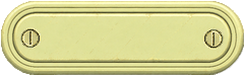
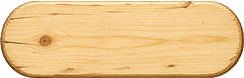
refactoring ui

diff --git a/src/game/states/stateGame/startScreen/locationPage/locationCatalog/LocationCatalogRow.ts b/src/game/states/stateGame/startScreen/locationPage/locationCatalog/LocationCatalogRow.ts
@@ -13,6 +13,8 @@ import {CATALOG_COLORS} from './locationCatalogTheme.js'
 const CONTENT_PADDING = 40 // Общий горизонтальный отступ содержимого дощечки
 const LOCK_GAP = 12 // Расстояние между названием и замком
 const LOCKED_BOARD_TINT = 0x91846d // Затемнение заблокированной дощечки
+const HOVER_SCALE = 1.02 // Увеличение дощечки при наведении
+const HOVER_DURATION = 0.15 // Длительность анимации наведения
 const SHAKE_OFFSET = 6 // Амплитуда горизонтального встряхивания
 const SHAKE_DURATION = 0.045 // Длительность одного шага встряхивания
 
@@ -33,6 +35,7 @@ export default class LocationCatalogRow extends Container {
   resize = (width: number, height: number) => {
     const scale = Math.min(width / this.#background.texture.width, height / this.#background.texture.height)
     this.hitArea = new Rectangle(0, 0, width, height)
+    this.origin.set(width / 2, height / 2)
     this.#background.scale.set(scale)
     this.#background.position.set(width / 2, height / 2)
     this.#title.position.set(CONTENT_PADDING, height / 2)
@@ -50,11 +53,29 @@ export default class LocationCatalogRow extends Container {
     this.cursor = this.#state.isUnlocked ? 'pointer' : 'default'
     this.interactiveChildren = false
     this.on('pointertap', () => this.#handlePress(onSelect))
+    this.#initHover()
+  }
+
+  // Подключает лёгкое увеличение дощечки при наведении.
+  #initHover = () => {
+    this.on('pointerover', () => this.#animateScale(HOVER_SCALE))
+    this.on('pointerout', () => this.#animateScale(1))
+  }
+
+  // Плавно изменяет масштаб всей дощечки относительно её центра.
+  #animateScale = (scale: number) => {
+    gsap.killTweensOf(this.scale)
+    gsap.to(this.scale, {
+      x: scale,
+      y: scale,
+      duration: HOVER_DURATION,
+      ease: 'sine.out',
+    })
   }
 
   // Создаёт деревянную подложку строки.
   #createBackground = () => {
-    this.#background = GameUtils.createSprite('board', {label: `${this.label}-background`})
+    this.#background = GameUtils.createSprite('select-board', {label: `selectBoard`})
     this.#background.tint = this.#getBackgroundTint()
     this.addChild(this.#background)
   }

diff --git a/src/game/states/stateGame/startScreen/locationPage/LocationPageView.ts b/src/game/states/stateGame/startScreen/locationPage/LocationPageView.ts
@@ -7,6 +7,7 @@ import type {GameMenuCallbacks, LevelEntry, LocationDefinition, LocationSelectio
 import LocationCard, {CARD_HEIGHT, CARD_WIDTH} from './locationCard/LocationCard.ts'
 import LocationCatalogView from './locationCatalog/LocationCatalogView.js'
 import LocationUnlockCelebration from './LocationUnlockCelebration.js'
+import GameUtils from '@/game/utils/gameUtils/GameUtils.ts'
 
 // Отображает страницы карточек локаций и кнопку продолжения игры.
 
@@ -142,18 +143,16 @@ export default class LocationPageView extends Container {
       cursor: 'pointer',
     })
 
-    const background = new Graphics({label: 'btnContinueAdventure-background'})
-    background.roundRect(0, 0, 480, 100, 28).fill({color: 0x9fbd3b})
-    background.stroke({color: 0xe7de83, width: 5})
-    background.pivot.set(background.width / 2, background.height / 2)
+    const background = GameUtils.createSprite('btn-primary')
+    background.scale.set(1.5)
 
     this.#continueTitle = new Text({
       label: 'btnContinueAdventure-title',
       text: i18next.t('locationSelect.continue'),
-      style: {...primaryFontStyle, fill: 0x303b12, fontSize: 31},
+      style: {...primaryFontStyle, fill: 0xFFFFFF, fontSize: 36},
     })
     this.#continueTitle.anchor.set(0.5)
-    this.#continueTitle.y = -15
+    this.#continueTitle.y = -14
 
     this.#continueSubtitle = new Text({
       label: 'btnContinueAdventure-subtitle',
@@ -161,7 +160,7 @@ export default class LocationPageView extends Container {
       style: {...primaryFontStyle, fill: 0x3e4b1d, fontSize: 22},
     })
     this.#continueSubtitle.anchor.set(0.5)
-    this.#continueSubtitle.y = 22
+    this.#continueSubtitle.y = 18
 
     button.addChild(background, this.#continueTitle, this.#continueSubtitle)
     button.on('pointertap', onContinue)

diff --git a/src/game/ui/common/modal/BaseModal.ts b/src/game/ui/common/modal/BaseModal.ts
@@ -71,7 +71,7 @@ export default class BaseModal extends Container {
     label,
     w = 430,
     h = 500,
-    crossOffset = {x: 0, y: 0},
+    crossOffset = {x: 30, y: -30},
     isSprite = true,
     spriteTexture = 'main-pop-up',
     nineSlice = {left: 0, top: 0, right: 0, bottom: 0},
@@ -300,18 +300,19 @@ export default class BaseModal extends Container {
 
     const header = new Container({label: 'baseModalHeader'})
     this.#header = header
-    const sprite = GameUtils.createSprite('frame-header', {
+    const spriteHeader = GameUtils.createSprite('select-board', {
       anchorY: 0,
       label: 'header',
     })
+    spriteHeader.scale.set(1.4)
     header.position.set(0, -topBorderOffset + topPadding)
 
     this.#headerText = GameUtils.createText('...', {
       style: {...primaryFontStyle, fontSize: 50},
     })
-    this.#headerText.y = sprite.height / 2
+    this.#headerText.y = spriteHeader.height / 2
 
-    header.addChild(sprite, this.#headerText)
+    header.addChild(spriteHeader, this.#headerText)
     this.addChild(header)
   }
 }

diff --git a/src/game/features/scoreboard/ScoreboardView.ts b/src/game/features/scoreboard/ScoreboardView.ts
@@ -17,7 +17,6 @@ const getViewHeight = () => {
   return maxRows * (ROW_SIZE.rowHeight + offsetY) + header + padding
 }
 
-// Создаёт модальное представление таблицы лидеров.
 
 export default class ScoreboardView extends BaseModal {
   #loadingText!: Text
@@ -26,9 +25,13 @@ export default class ScoreboardView extends BaseModal {
   #userPlayerTextFill = 0x00ffa9
   #userPlayerRowFill = 0x20b2aa
 
-  // Создаёт окно и его статические элементы.
   constructor(props: BaseModalOptions = {}) {
-    super({h: getViewHeight(), w: 600, isNeedHeader: true, ...props})
+    super({
+      h: getViewHeight(),
+      w: 600,
+      isNeedHeader: true,
+      ...props
+    })
 
     this.label = 'scoreboardView'
     this.#create()

diff --git a/src/game/features/store/StoreView.ts b/src/game/features/store/StoreView.ts
@@ -8,19 +8,20 @@ import {GAME_EVENTS} from '../../gameConfig/gameEvents.js'
 import StoreCard, {CARD_SIZE, CARDS_DATA} from './StoreCard.js'
 import StoreTopRow from './StoreTopRow.js'
 
-// Создаёт модальное представление магазина и сетку товаров.
 
 export default class StoreView extends BaseModal {
   #cardsContainer!: Container
   #cards: StoreCard[] = []
 
-  // Создаёт окно магазина с заголовком.
   constructor(props: BaseModalOptions = {}) {
-    super({h: 648, w: 420, isNeedHeader: true, ...props})
+    super({
+      h: 800,
+      w: 600,
+      isNeedHeader: true,
+      ...props
+    })
 
     this.label = 'storeView'
-    this._initScale = 1.3
-
     this.#setHeaderText()
   }
 

diff --git a/src/game/ui/common/options/OptionsView.ts b/src/game/ui/common/options/OptionsView.ts
@@ -189,7 +189,7 @@ export default class OptionsView extends BaseModal {
 
     this.#timeLine = await gsap
       .timeline({ease: 'linear'})
-      .to(this.#optionsToggleBtn, {angle: isVisible ? 90 : 0, duration: 0.1})
+      .to(this.#optionsToggleBtn, {angle: isVisible ? 50 : 0, duration: 0.1})
       .eventCallback('onComplete', () => {
         if (!isVisible) Locator.uiLayer.closeModal(this)
         destroyTimeLine(this.#timeLine as gsap.core.Timeline | null)

diff --git a/src/game/states/stateGame/startScreen/GameMenuView.ts b/src/game/states/stateGame/startScreen/GameMenuView.ts
@@ -85,7 +85,11 @@ export default class GameMenuView extends Container {
   #createToolButton = (name: string, icon: string, x: number, onPress: () => void) => {
     const button = new ButtonContainer({
       props: {name},
-      spriteKeys: ['btn-ui-3', icon],
+      spriteKeys: [
+        {key: 'btn-ui-2', scale: 0.5},
+        {key: icon, scale: 1}
+      ],
+
     })
     button.alignRight = () => {
       Locator.uiLayer.alignRight(button, {x, y: 60})
